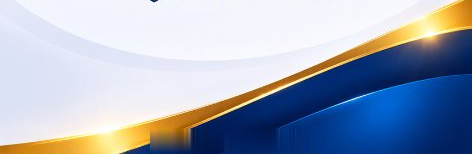
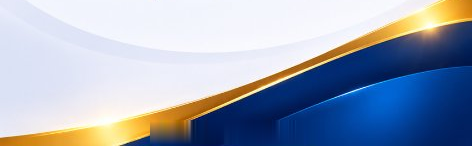
fix(mobile): clean button artifacts and add local system notification trigger for live notifications

diff --git a/attendance/mobile/src/components/PushNotificationManager.tsx b/attendance/mobile/src/components/PushNotificationManager.tsx
@@ -1,7 +1,8 @@
-import { useEffect, useRef } from 'react';
+import { useEffect, useRef, useCallback } from 'react';
 import { Platform } from 'react-native';
 import * as Notifications from 'expo-notifications';
 import Constants from 'expo-constants';
+import * as SecureStore from 'expo-secure-store';
 import { api } from '../context/AuthContext';
 
 // Configure foreground notification behavior: show banner, list, play sound
@@ -15,6 +16,7 @@ Notifications.setNotificationHandler({
 });
 
 const NOTIFICATION_CHANNEL_ID = 'hrms-notifications-v1';
+const LAST_SEEN_NOTIFICATION_ID_KEY = 'hrms_last_seen_notification_id';
 
 interface PushNotificationManagerProps {
   isAuthenticated: boolean;
@@ -26,15 +28,17 @@ export default function PushNotificationManager({
   onNotificationReceived,
 }: PushNotificationManagerProps) {
   const registeredTokenRef = useRef<string | null>(null);
+  const lastNotifiedIdRef = useRef<number>(0);
+  const isPollingRef = useRef<boolean>(false);
 
-  // 1. Setup high importance notification channel on Android
+  // 1. Setup high importance notification channel on Android (sound, vibration, banner)
   useEffect(() => {
     async function setupNotificationChannel() {
       if (Platform.OS === 'android') {
         try {
           await Notifications.setNotificationChannelAsync(NOTIFICATION_CHANNEL_ID, {
             name: 'HRMS Notifications',
-            description: 'Leave, permission, and approval notifications',
+            description: 'Leave, permission, location, and approval notifications',
             importance: Notifications.AndroidImportance.MAX,
             vibrationPattern: [0, 250, 250, 250],
             lightColor: '#003882',
@@ -60,7 +64,6 @@ export default function PushNotificationManager({
 
     async function registerForPush() {
       try {
-        // Check existing permissions
         const { status: existingStatus } = await Notifications.getPermissionsAsync();
         let finalStatus = existingStatus;
 
@@ -74,7 +77,6 @@ export default function PushNotificationManager({
           return;
         }
 
-        // Get projectId from Constants
         const projectId =
           Constants?.expoConfig?.extra?.eas?.projectId ??
           Constants?.easConfig?.projectId ??
@@ -87,10 +89,8 @@ export default function PushNotificationManager({
         const token = tokenResponse?.data;
         if (!token || isCancelled) return;
 
-        // Prevent repeated registration of the same token in one session
         if (registeredTokenRef.current === token) return;
 
-        // Register token with backend WebPushDevice endpoint
         await api.post('/notifications/push-token/', { token });
         registeredTokenRef.current = token;
         console.log('[PushNotificationManager] Push token registered successfully:', token);
@@ -106,7 +106,80 @@ export default function PushNotificationManager({
     };
   }, [isAuthenticated]);
 
-  // 3. Listen for incoming notifications when app is open / foreground
+  // 3. Fallback Smart Polling + Local System Notification Trigger:
+  // Even if FCM is blocked or running in preview without credentials, this checks for new unread notifications
+  // and fires a real Native System Notification (tray / lock screen popup with sound & vibration)
+  const pollAndTriggerSystemNotification = useCallback(async () => {
+    if (!isAuthenticated || isPollingRef.current) return;
+    isPollingRef.current = true;
+
+    try {
+      // Initialize lastNotifiedId from SecureStore on first run
+      if (lastNotifiedIdRef.current === 0) {
+        const stored = await SecureStore.getItemAsync(LAST_SEEN_NOTIFICATION_ID_KEY);
+        if (stored) {
+          lastNotifiedIdRef.current = parseInt(stored, 10) || 0;
+        }
+      }
+
+      const res = await api.get('/notifications/?limit=10');
+      const results: any[] = res.data?.results || [];
+
+      if (results.length > 0) {
+        const newest = results[0];
+        const newestId = Number(newest.id);
+
+        if (lastNotifiedIdRef.current === 0) {
+          // Initial mount: mark current newest as seen so we don't spam old notifications
+          lastNotifiedIdRef.current = newestId;
+          await SecureStore.setItemAsync(LAST_SEEN_NOTIFICATION_ID_KEY, String(newestId));
+        } else if (newestId > lastNotifiedIdRef.current) {
+          // Brand new notification arrived! Find all new ones
+          const newNotifications = results.filter((n) => Number(n.id) > lastNotifiedIdRef.current && !n.is_read);
+
+          for (const item of newNotifications.reverse()) {
+            await Notifications.scheduleNotificationAsync({
+              content: {
+                title: item.title || 'HRMS Notification',
+                body: item.message || 'You have a new update.',
+                data: {
+                  url: '/',
+                  event: item.event,
+                  notificationId: item.id,
+                },
+                sound: 'default',
+              },
+              trigger: null, // trigger immediately!
+            });
+          }
+
+          lastNotifiedIdRef.current = newestId;
+          await SecureStore.setItemAsync(LAST_SEEN_NOTIFICATION_ID_KEY, String(newestId));
+          onNotificationReceived?.();
+        }
+      }
+    } catch (err) {
+      // silent network catch
+    } finally {
+      isPollingRef.current = false;
+    }
+  }, [isAuthenticated, onNotificationReceived]);
+
+  useEffect(() => {
+    if (!isAuthenticated) return;
+
+    // Run once on login
+    void pollAndTriggerSystemNotification();
+
+    // Check periodically every 6 seconds while app is running
+    const interval = setInterval(() => {
+      void pollAndTriggerSystemNotification();
+    }, 6000);
+
+    return () => clearInterval(interval);
+  }, [isAuthenticated, pollAndTriggerSystemNotification]);
+
+  // 4. Listen for system notification interactions
   useEffect(() => {
     const receivedSub = Notifications.addNotificationReceivedListener((notification) => {
       console.log('[PushNotificationManager] Notification received:', notification.request.content.title);
@@ -126,4 +199,3 @@ export default function PushNotificationManager({
 
   return null;
 }
-

diff --git a/attendance/mobile/src/screens/LoginScreen.tsx b/attendance/mobile/src/screens/LoginScreen.tsx
@@ -194,7 +194,7 @@ export default function LoginScreen() {
       <StatusBar style="light" />
 
       {/* Decorative Bottom Wave Fixed Background (Wave only, no duplicated badge) */}
-      <View style={[styles.bottomFooterContainer, { height: SCREEN_WIDTH * (154 / 472) }]} pointerEvents="none">
+      <View style={[styles.bottomFooterContainer, { height: SCREEN_WIDTH * (146 / 472) }]} pointerEvents="none">
         <Image
           source={BOT_FOOTER_IMAGE}
           style={styles.bottomFooterImage}
